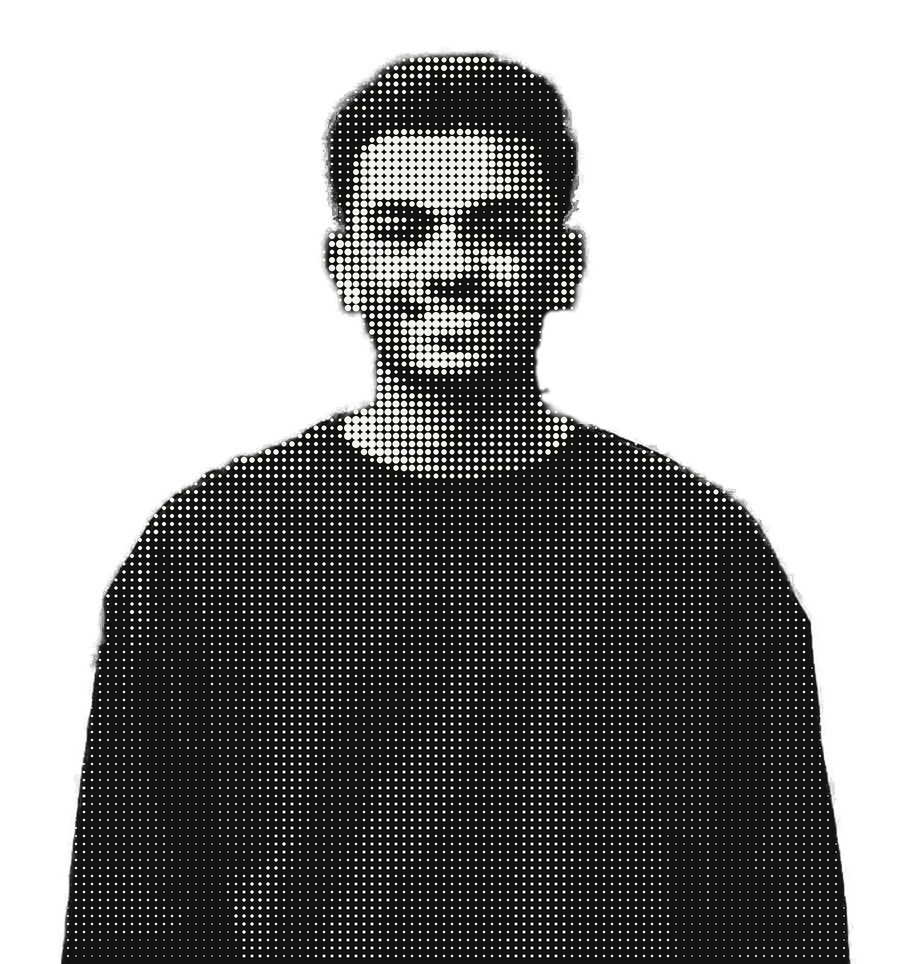
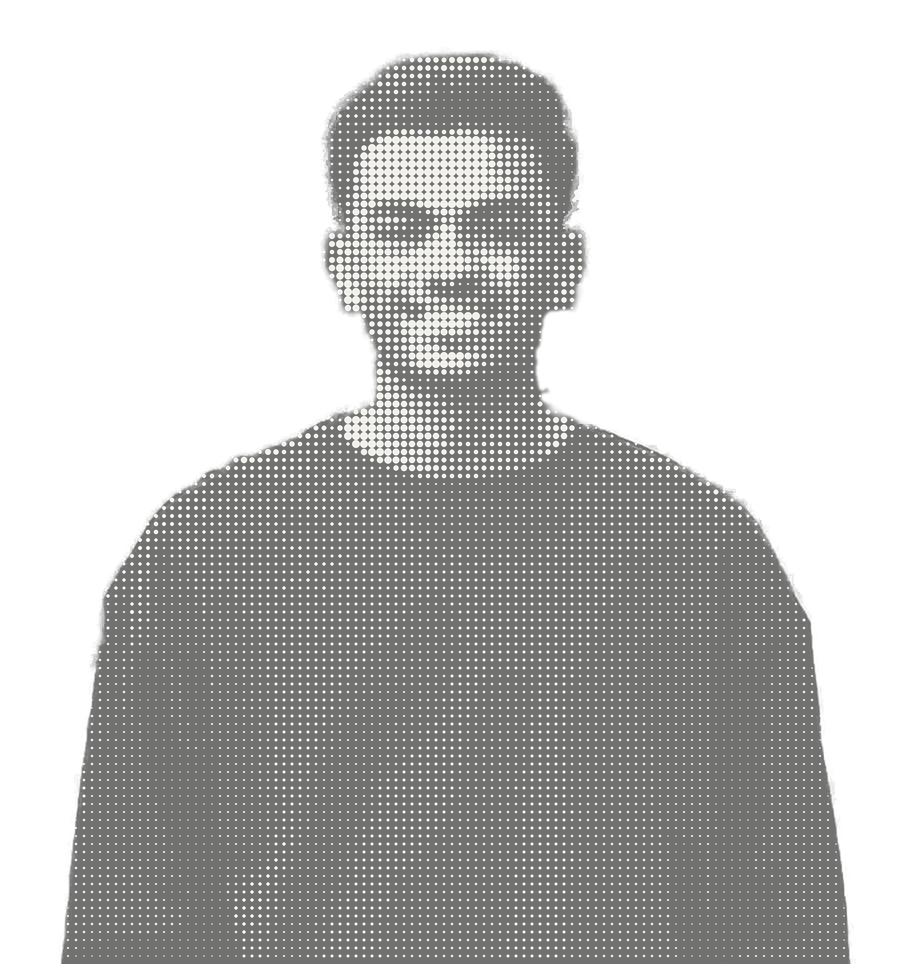
Hero: fetch the halftone print after the first paint, so Home's LCP is back under 1.8 s
PR #69's Lighthouse CI failed on Home: largest contentful paint 2.26 s
against the 1.8 s budget. Its simulation counts every request that starts
before the paint, and the 48 KB halftone print (loaded with the page,
laid over the photo from the first frame) was one of them.

- The print now waits in an inert <template>. A small script clones it in
  once the browser has reported the first paint (a largest-contentful-paint
  entry), so it cannot start before the recorded paint; later than 0.8 s,
  or with reduced motion or no JavaScript, it is never downloaded.
- The print is a 60% dark veil with warm white dots, laid over the photo
  and faded away, so the photo is never hidden (no photo, dots, photo
  double-take). It plays at about 0.3 to 1.1 s.
- The photo is AVIF quality 50 (11 KB at 640w, was 17 KB).
- Lighthouse CI's own config, run locally, median of three: 2.12 s before,
  1.70 to 1.75 s now, against 1.69 to 1.72 s for the site before this PR.
- Tests, DESIGN.md and docs/31 updated.

Claude-Session: https://claude.ai/code/session_01NESr52dxwQDfFizCXWfomM

diff --git a/tests/e2e/site.spec.ts b/tests/e2e/site.spec.ts
@@ -553,14 +553,19 @@ test.describe('home interactions', () => {
     await expect(page.locator('[data-agent-graph], [data-ag-toggle], [data-tune], [data-signal-sculpture]')).toHaveCount(0);
   });
 
-  test('the portrait arrives once: the halftone print develops into the photo, then nothing moves', async ({ page }) => {
+  test('the portrait arrives once: a halftone print is laid over the photo and develops away, then nothing moves', async ({ page }) => {
     await page.setViewportSize({ width: 1440, height: 900 });
     await page.goto('/');
-    // The print is decoration over the photo: no name, hidden from assistive technology.
+    // The photo is in the page from the first frame; the print is not. It waits in an inert <template> and the script
+    // fetches it only after the photo has painted, so it never counts toward the largest paint (CI, PR #69).
     const print = page.locator('.hp__print');
+    await expect(print).toHaveCount(1, { timeout: 5000 });
+    // The print is decoration over the photo: no name, hidden from assistive technology.
     await expect(print).toHaveAttribute('alt', '');
     await expect(print).toHaveAttribute('aria-hidden', 'true');
-    // It shows first (the photo is under it from the first frame), then fades for good.
+    // It comes up over the photo, then fades for good; the photo is never hidden.
+    await expect(page.locator('[data-hero-portrait]')).toHaveClass(/is-printing/);
+    expect(await page.locator('.hp__photo').evaluate((e) => getComputedStyle(e).opacity)).toBe('1');
     await expect.poll(() => print.evaluate((e) => getComputedStyle(e).opacity), { timeout: 5000 }).toBe('0');
     const onClock = () =>
       page.evaluate(
@@ -577,7 +582,7 @@ test.describe('home interactions', () => {
   test('scrolling the hero away brings the portrait forward without lifting its base off the panel', async ({ page }) => {
     await page.setViewportSize({ width: 1440, height: 900 });
     await page.goto('/');
-    await expect.poll(() => page.locator('.hp__print').evaluate((e) => getComputedStyle(e).opacity), { timeout: 5000 }).toBe('0');
+    await page.waitForFunction(() => performance.now() >= 1800); // the entrance (and the print) are over
     const top = await page.evaluate(() => document.querySelector('.hp')!.getBoundingClientRect().top + scrollY);
     // Halfway through the hero's exit. (A slide up opened a 28px gap here, found 22 Nov 2026; it is a scale now.)
     await page.evaluate((y) => scrollTo(0, y), top + 250);
@@ -594,14 +599,16 @@ test.describe('home interactions', () => {
     }
   });
 
-  test('reduced motion and no JavaScript: the finished portrait, still, with no print over it', async ({ browser }) => {
+  test('reduced motion and no JavaScript: the finished portrait, still, and the print is never downloaded', async ({ browser }) => {
     for (const opts of [{ reducedMotion: 'reduce' as const }, { javaScriptEnabled: false }]) {
       const ctx = await browser.newContext({ ...opts, viewport: { width: 390, height: 844 } });
       const page = await ctx.newPage();
       await page.goto('/');
       await expect(page.locator('.hp__photo')).toBeVisible();
-      expect(await page.locator('.hp__print').evaluate((e) => getComputedStyle(e).opacity)).toBe('0');
-      for (const sel of ['.hp__stage', '.hp__clip', '.hp__figure', '.hp__print'])
+      await page.waitForTimeout(1500); // longer than the print would take to arrive
+      await expect(page.locator('.hp__print'), JSON.stringify(opts)).toHaveCount(0);
+      expect(await page.evaluate(() => performance.getEntriesByType('resource').some((r) => /halftone/.test(r.name))), JSON.stringify(opts)).toBe(false);
+      for (const sel of ['.hp__stage', '.hp__clip', '.hp__figure'])
         expect(await page.locator(sel).evaluate((e) => getComputedStyle(e).animationName), `${sel}: ${JSON.stringify(opts)}`).toBe('none');
       await ctx.close();
     }
@@ -765,9 +772,9 @@ test.describe('home interactions', () => {
     await page.goto('/');
     await expect(page.locator('.hdr__nav').getByRole('link', { name: 'Services' })).toBeVisible();
     await expect(page.locator('[data-menu-open]')).toBeHidden();
-    // The portrait needs no script: the finished photo, with the print hidden.
+    // The portrait needs no script: the finished photo, and no print.
     await expect(page.locator('.hp__photo')).toBeVisible();
-    expect(await page.locator('.hp__print').evaluate((e) => getComputedStyle(e).opacity)).toBe('0');
+    await expect(page.locator('.hp__print')).toHaveCount(0);
     await ctx.close();
   });
 });

diff --git a/tests/e2e/design-gates.spec.ts b/tests/e2e/design-gates.spec.ts
@@ -666,7 +666,8 @@ test.describe('design gates: motion (Phase 4)', () => {
       await page.goto('/');
       await expect(page.locator('.hp__photo')).toBeVisible();
       expect(await page.locator('.hp__photo').evaluate((e) => getComputedStyle(e).opacity)).toBe('1');
-      expect(await page.locator('.hp__print').evaluate((e) => getComputedStyle(e).opacity)).toBe('0');
+      // The print is only ever fetched with motion on (it waits in a <template>).
+      await expect(page.locator('.hp__print')).toHaveCount(0);
       await ctx.close();
     }
   });

diff --git a/scripts/make-halftone.py b/scripts/make-halftone.py
@@ -1,12 +1,13 @@
 """
 The hero portrait's halftone print (22 Nov 2026): Mann's cut-out drawn as a field of round dots, bigger where the photo
-is brighter, the same size as the cut-out so the two stack exactly. On Home the print shows for a moment as he rises
-into frame, then fades to reveal the real photo ("developing"; src/components/home/HeroPortrait.astro).
+is brighter, the same size as the cut-out so the two stack exactly. On Home the print is laid over the photo for a
+moment, as a dotted veil, then fades to leave the real photo ("developing"; src/components/home/HeroPortrait.astro).
+It is fetched only after the photo has painted, so it never delays the largest paint.
 
 Run after changing the cut-out:
     python3 scripts/make-halftone.py
 Needs Pillow (pip install pillow). Writes src/assets/mann-patel-halftone.png: warm white dots on the silhouette, which
-is filled in the page's dark, so the print covers the photo exactly until it fades.
+is veiled in the page's dark at 60%, so the dots read against the photo while it stays visible underneath.
 """
 from pathlib import Path
 
@@ -39,10 +40,11 @@ for cy in range(CELL // 2, h, CELL):
 lums = sorted(c[3] for c in cells)
 lo, hi = lums[int(len(lums) * 0.05)], lums[int(len(lums) * 0.97)]
 
-# The silhouette is filled in the page's dark (--bg-2), so while the print shows, the photo under it doesn't.
+# The silhouette is veiled in the page's dark (--bg-2) at 60%: the dots stand out and the photo stays in view under them.
 FILL = (18, 18, 17)
+VEIL = 0.6
 base = Image.new('RGBA', (w, h), FILL + (0,))
-base.putalpha(alpha)
+base.putalpha(alpha.point(lambda v: int(v * VEIL)))
 big = base.resize((w * SCALE, h * SCALE), Image.LANCZOS)
 draw = ImageDraw.Draw(big)
 for cx, cy, a, lum in cells:

diff --git a/docs/31-hero-portrait.md b/docs/31-hero-portrait.md
@@ -21,17 +21,28 @@ profile picture, with a unique animation, and no wires. This replaces `AgentGrap
   His head breaks out above the panel's top edge, so the photo has depth without any lines or labels. No lime: the
   hero's one lime mark stays the button. About 480px across at 1440, up to 22rem on phones (after the buttons, with his
   face on the first screen, so the small greeting avatar is gone).
-- **The signature moment: a print that develops.** On load the panel rises, Mann rises into frame from behind its
-  bottom edge, and he arrives as a **halftone print** (warm white dots, the site's dot grid made into a picture) that
-  fades to reveal the real photo, like a print developing. A nod to his photography. About 1.3 s, once, transform and
-  opacity only; then nothing moves on its own (gate M2).
+- **The signature moment: a print that develops.** On load the panel rises and Mann rises into frame from behind its
+  bottom edge. A **halftone print** (warm white dots over a 60% dark veil, the site's dot grid made into a picture) is
+  then laid over the photo and fades away, like a print developing. A nod to his photography. About 1.3 s, once,
+  transform and opacity only; then nothing moves on its own (gate M2). The photo is never hidden, so there is no
+  photo, dots, photo double-take.
 - **Depth on scroll.** As the hero leaves, he comes a little forward (`scale(1.06)` from the panel's bottom edge, on a
   CSS view timeline). A scale, not a slide: sliding him up opened a 28px gap between his cut-off base and the panel's
   edge, caught in review. Browsers without scroll-driven animations show it still.
 - **Reduced motion and no JavaScript:** the finished photo, still, with the print hidden.
-- **Speed:** the photo is the page's one `fetchpriority="high"` image and is painted from the first frame, under the
-  print (gate H6 accepts it as the LCP element). Both images are AVIF with a WebP fallback and a full srcset (gate G2).
-  The print is made by `scripts/make-halftone.py` (Pillow) from the cut-out; re-run it if the cut-out changes.
+- **Speed:** the photo is the page's one `fetchpriority="high"` image and is painted from the first frame (gate H6
+  accepts it as the LCP element). Both images are AVIF with a WebP fallback and a full srcset (gate G2), and the photo
+  is quality 50 (11 KB at 640w, 17 KB at quality 62; the difference is hard to see). The print is made by
+  `scripts/make-halftone.py` (Pillow) from the cut-out; re-run it if the cut-out changes.
+- **The print is fetched after the first paint, not with the page.** The first version had it in the markup, covering
+  the photo from the first frame. CI's Lighthouse then measured Home's largest contentful paint at 2.26 s against the
+  1.8 s budget: its simulation counts every request that starts before the paint, and the print is 48 KB (about 0.3 s
+  at its throttled 1.6 Mbps). Now the print sits in an inert `<template>`; a script clones it in once the browser has
+  reported the first paint (a `largest-contentful-paint` performance entry), so it can never start before the
+  recorded paint (starting it after the decode and two frames did, in about one run in three). If the paint comes
+  after 0.8 s (a slow connection), or with reduced motion, or without JavaScript, the print is not downloaded at all.
+  Measured with Lighthouse CI's own config, locally, median of three: 2.12 s with the print in the page; 1.70 to 1.75 s
+  now, against 1.69 to 1.72 s for the site as it was before this change.
 
 ## Removed
 
@@ -44,7 +55,8 @@ ping), and the line-art greys and stroke weights stay for the services scenes.
 | Check | Result |
 |---|---|
 | Unit tests (`npx vitest run`) | 177 passed |
-| End-to-end, full suite | 252 of 252 passed on a clean run. A first run had 7 failures: 6 were form tests hitting a test server left running from before the rebuild (its server code pointed at old files); 1 was real and older than this change: the wide-screen service tiles faded their colours when they became active, against the transform-and-opacity rule. They now fade a highlight layer in. |
+| End-to-end, full suite | 252 of 252 passed on a clean run, before the print was moved out of the first load; re-run after (see the PR). A first run had 7 failures: 6 were form tests hitting a test server left running from before the rebuild (its server code pointed at old files); 1 was real and older than this change: the wide-screen service tiles faded their colours when they became active, against the transform-and-opacity rule. They now fade a highlight layer in. |
+| Lighthouse CI on Home (PR #69's own run) | Failed: LCP 2.26 s against 1.8 s with the print in the first load. Fixed as above; Lighthouse CI's config run locally gives 1.70 to 1.75 s |
 | Hero and portrait tests, with the new scroll test (the base stays on the panel) | 26 passed |
 | Production build and pre-launch check (`npm run build:cloudflare`) | 0 errors; 2 warnings for Cloudflare secrets a local build can't see |
 | SEO check (`scripts/seo-check.mjs`) | 0 errors; the same 2 warnings as before (/privacy/ description length, /services/ word count) |

diff --git a/DESIGN.md b/DESIGN.md
@@ -7,13 +7,18 @@
 >   head breaking out above the panel's top edge. No lines, labels, pills, lime or pause button. About 480px across at
 >   1440, up to 22rem on phones, after the buttons.
 > - **Motion, once, about 1.3 s, transform and opacity only:** the panel rises; Mann rises into frame from behind its
->   bottom edge; he arrives as a **halftone print** (warm white dots, `assets/mann-patel-halftone.png`, made by
->   `scripts/make-halftone.py`) that **develops** into the photo. Then nothing moves on its own. Scrolling the hero away
+>   bottom edge; a **halftone print** (warm white dots over a 60% dark veil, `assets/mann-patel-halftone.png`, made by
+>   `scripts/make-halftone.py`) is laid over the photo and **develops** away (about 0.3 to 1.1 s; the photo is never
+>   hidden). Then nothing moves on its own. Scrolling the hero away
 >   brings him 6% forward, scaled from the panel's bottom edge so his base stays on it (CSS scroll-driven, where
 >   supported). Reduced motion and no JavaScript:
 >   the finished photo, still.
 > - **Speed:** the photo is the page's one `fetchpriority="high"` image and is painted from the first frame; the print
->   only covers it. The phone avatar beside the greeting is gone: the portrait shows his face on the first screen.
+>   is never delayed. The print is **not in the first load**: it waits in an inert `<template>` and a small script
+>   fetches it only after the browser has reported the first paint (a `largest-contentful-paint` entry); later than
+>   0.8 s, or with reduced motion or no JavaScript, it is never downloaded. Loaded with the page it put Home's
+>   Lighthouse LCP at about 2.26 s against the 1.8 s budget (PR #69's CI). The photo is AVIF at quality 50.
+>   The phone avatar beside the greeting is gone: the portrait shows his face on the first screen.
 > - Removed with the graph: `AgentGraph.astro`, its pause button, its lime exemption in gate C1, `--signal-a15` …
 >   `-a90` but `-a60`, `--graph-ring` and `--graph-pill-line`. `--dur-loop` stays for the live dot's ping.
 >
